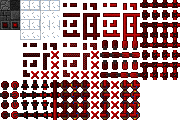
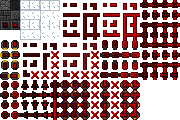
Add files via upload

Changed region(s): [[0.0, 0.325, 0.1111, 0.675]]

diff --git a/world.py b/world.py
@@ -63,11 +63,11 @@ class World:
         self.buttons = pygame.sprite.Group()
         self.is_creative = 1
         self.can_break = 1
-        self.block_indexes = {"wire" : 0, "activator" : 1, "block" : 2, "NOT" : 3, "wire box" : 4, "AND" : 5, "XOR" : 6, "diode" : 7, "output" : 8, "glass" : 9, "armored wire" : 10, "memory" : 11}
-        self.block_indexes2 = ["wire", "activator", "block", "NOT", "wire box", "AND", "XOR", "diode", "output", "glass", "armored wire", "memory"]
+        self.block_indexes = {"wire" : 0, "activator" : 1, "block" : 2, "NOT" : 3, "wire box" : 4, "AND" : 5, "XOR" : 6, "diode" : 7, "output" : 8, "glass" : 9, "armored wire" : 10, "memory" : 11, "sensor" : 12}
+        self.block_indexes2 = ["wire", "activator", "block", "NOT", "wire box", "AND", "XOR", "diode", "output", "glass", "armored wire", "memory", "sensor"]
         self.inventory_index = 0
-        self.inventory = {"wire" : 9999, "activator" : 9999, "block" : 9999, "NOT" : 9999, "wire box" : 9999, "AND" : 9999, "XOR" : 9999, "diode" : 9999, "armored wire" : 9999, "memory" : 9999, "output" : 9999, "glass" : 9999, "air" : 0}
-        self.inventory_names = ["wire", "activator", "block", "NOT", "wire box", "AND", "XOR", "diode", "armored wire", "memory", "output", "glass", "air"]
+        self.inventory = {"wire" : 9999, "activator" : 9999, "block" : 9999, "NOT" : 9999, "wire box" : 9999, "AND" : 9999, "XOR" : 9999, "diode" : 9999, "armored wire" : 9999, "memory" : 9999, "sensor" : 9999, "output" : 9999, "glass" : 9999, "air" : 0}
+        self.inventory_names = ["wire", "activator", "block", "NOT", "wire box", "AND", "XOR", "diode", "armored wire", "memory", "sensor", "output", "glass", "air"]
         #self.load_level("level")
 
     def update(self, events):
@@ -137,7 +137,7 @@ class World:
                             self.timer = 0
                             bl = block.get_block(self, blockpos, self.inventory_names[self.inventory_index])
                             sl = self.inventory_names[self.inventory_index]
-                            if sl == "NOT" or sl == "AND" or sl == "XOR" or sl == "diode" or sl == "output" or sl == "memory":
+                            if sl == "NOT" or sl == "AND" or sl == "XOR" or sl == "diode" or sl == "output" or sl == "memory" or sl == "sensor":
                                 bl.data["rotate"] = self.select_rotate
                             bl.connect_with_armored_wire()
                             self.change_image()
@@ -187,12 +187,12 @@ class World:
                         self.field[x][y].data["activated2"] = 0
             for x in range(self.w):#распространение электричества
                 for y in range(self.h):
-                    if self.field[x][y].type == "activator" or self.field[x][y].type == "NOT" or self.field[x][y].type == "AND" or self.field[x][y].type == "XOR" or self.field[x][y].type == "memory":
+                    if self.field[x][y].type == "activator" or self.field[x][y].type == "NOT" or self.field[x][y].type == "AND" or self.field[x][y].type == "XOR" or self.field[x][y].type == "memory" or self.field[x][y].type == "sensor":
                         if self.field[x][y].data["activated"] == 1:
                             self.field[x][y].update()
             for x in range(self.w):#активация логических вентилей
                 for y in range(self.h):
-                    if self.field[x][y].type == "NOT" or self.field[x][y].type == "AND" or self.field[x][y].type == "XOR" or self.field[x][y].type == "memory":
+                    if self.field[x][y].type == "NOT" or self.field[x][y].type == "AND" or self.field[x][y].type == "XOR" or self.field[x][y].type == "memory" or self.field[x][y].type == "sensor":
                         self.field[x][y].update(self.field[x][y].data, enr=0)
             self.change_image()
         self.timer = 0
@@ -312,7 +312,7 @@ class World:
                 elif int(bl[0]) == 3:
                     new_block.data["activated"] = int(bl[3])
                     new_block.data["rotate"] = int(bl[4])
-                elif int(bl[0]) == 4:
+                elif int(bl[0]) == 4 or int(bl[0]) == 8 or int(bl[0]) == 12:
                     new_block.data["activated1"] = int(bl[3])
                     new_block.data["activated2"] = int(bl[4])
                 elif int(bl[0]) == 5 or int(bl[0]) == 6:
@@ -324,9 +324,6 @@ class World:
                     new_block.data["activated1"] = int(bl[3])
                     new_block.data["activated2"] = int(bl[4])
                     new_block.data["rotate"] = int(bl[5])
-                elif int(bl[0]) == 8:
-                    new_block.data["activated"] = int(bl[3])
-                    new_block.data["rotate"] = int(bl[4])
                 elif int(bl[0]) == 10:
                     new_block.data["activated"] = int(bl[3])
                     new_block.data["connections"] = [bl[4][i] == "1" for i in range(4)]

diff --git a/sensor.py b/sensor.py
@@ -1,22 +1,20 @@
 from block import Block
 
-class NOT(Block):
+class Sensor(Block):
     def __init__(self, world, pos, glassed=0, data=None):
         preset_data = {"activated" : 0, "rotate" : 0}
-        Block.__init__(self, world, pos, "NOT", glassed, data, preset_data)
+        Block.__init__(self, world, pos, "sensor", glassed, data, preset_data)
 
     def update(self, data={}, enr=1):
         if not enr:
             behind_pos = self.get_rotate_position((self.data["rotate"] + 2) % 4)
-            inp = 0
             #вход
             if self.border(behind_pos):
                 behind_block = self.world.field[behind_pos[0]][behind_pos[1]]
-                if behind_block.is_block_connect_output((self.data["rotate"] + 2) % 4):
-                    inp = behind_block.data[behind_block.get_activated_key((self.data["rotate"] + 2) % 4)]
-            #активация
-            self.data["activated"] = not inp
-            self.active = not inp
+                if behind_block.get_activated_key((self.data["rotate"] + 2) % 4) != None:
+                    self.data["activated"] = behind_block.data[behind_block.get_activated_key((self.data["rotate"] + 2) % 4)]
+                else:
+                    self.data["activated"] = 0
         if enr:
             #распространение сигнала
             front_pos = self.get_rotate_position(self.data["rotate"])
@@ -26,16 +24,10 @@ class NOT(Block):
                     front_block.update({"rotate": self.data["rotate"]})
 
     def is_block_connect_with_wire(self, rotate):
-        return(self.data["rotate"] == rotate or (self.data["rotate"] + 2) % 4 == rotate)
+        return(self.data["rotate"] == (rotate + 2) % 4)
 
     def is_block_connect_output(self, rotate):
         return((self.data["rotate"] + 2) % 4 == rotate)
-
-    def is_block_connect_input(self, rotate):
-        return(self.data["rotate"] == rotate)
-
-    def get_activated_key(self, rotate):#-|-
-        return("activated")
 
     def connect_with_armored_wire(self):
         for i in range(4):

diff --git a/block.py b/block.py
@@ -57,6 +57,8 @@ class Block():
             self.image = get_armored_wire_image(self.data, self.data["connections"])
         elif self.type == "memory":#ячейка памяти
             self.image = get_memory_image(self.data)
+        elif self.type == "sensor":#сенсор
+            self.image = get_sensor_image(self.data)
         if self.glassed:
             see = [0, 0, 0, 0]
             for i in range(4):
@@ -92,7 +94,7 @@ class Block():
         return(0)
 
     def get_activated_key(self, rotate):#-|-
-        return("activated")
+        return(None)
 
     def connect_with_armored_wire(self):
         pass
@@ -106,6 +108,7 @@ from diode import Diode
 from output import Output
 from wire_box import WireBox
 from memory import Memory
+from sensor import Sensor
 
 def get_block(world, pos, type, glassed=0, data=None):
     if type == "wire":
@@ -126,4 +129,6 @@ def get_block(world, pos, type, glassed=0, data=None):
         return(WireBox(world, pos, glassed, data))
     elif type == "memory":
         return(Memory(world, pos, glassed, data))
+    elif type == "sensor":
+        return (Sensor(world, pos, glassed, data))
     return(Block(world, pos, type, glassed, data))

diff --git a/image_factory.py b/image_factory.py
@@ -46,6 +46,10 @@ def get_armored_wire_image(data, neighbours):
 def get_memory_image(data):
     return(get_image(data["activated1"] + data["activated2"] * 2 + data["activated"] * 4 + 6, data["rotate"] + 8))
 
+def get_sensor_image(data):
+    print(data)
+    return(get_image(data["activated"], data["rotate"] + 4))
+
 def get_block_image(sftype, neighbours, data):
     if sftype == "wire":
         return(get_wire_image(data, neighbours))
@@ -71,6 +75,8 @@ def get_block_image(sftype, neighbours, data):
         return(get_armored_wire_image(data, neighbours))
     elif sftype == "memory":
         return(get_memory_image(data))
+    elif sftype == "sensor":
+        return(get_sensor_image(data))
     elif sftype == "air":
         img = pygame.Surface((40, 40))
         img.set_colorkey((0, 0, 0))

diff --git a/logic_gate.py b/logic_gate.py
@@ -49,6 +49,9 @@ class LogicGate(Block):
     def is_block_connect_input(self, rotate):
         return((self.data["rotate"] + 1) % 4 == (rotate + 2) % 4 or (self.data["rotate"] - 1) % 4 == (rotate + 2) % 4)
 
+    def get_activated_key(self, rotate):#-|-
+        return("activated")
+
     def connect_with_armored_wire(self):
         for i in range(4):
             pos = self.get_rotate_position(i)

diff --git a/memory.py b/memory.py
@@ -45,6 +45,9 @@ class Memory(Block):
     def is_block_connect_input(self, rotate):
         return((self.data["rotate"] + 1) % 4 == (rotate + 2) % 4 or (self.data["rotate"] - 1) % 4 == (rotate + 2) % 4)
 
+    def get_activated_key(self, rotate):#-|-
+        return("activated")
+
     def connect_with_armored_wire(self):
         for i in range(4):
             pos = self.get_rotate_position(i)

diff --git a/armored_wire.py b/armored_wire.py
@@ -25,6 +25,9 @@ class ArmoredWire(Block):
     def is_block_connect_input(self, rotate):
         return (sum(self.data["connections"]) - self.data["connections"][(rotate + 2) % 4] <= 1)
 
+    def get_activated_key(self, rotate):#-|-
+        return("activated")
+
     def connect_with_armored_wire(self):
         see = [0, 0, 0, 0]
         for i in range(4):

diff --git a/output.py b/output.py
@@ -16,6 +16,9 @@ class Output(Block):
     def is_block_connect_input(self, rotate):
         return (self.data["rotate"] == rotate)
 
+    def get_activated_key(self, rotate):#-|-
+        return("activated")
+
     def connect_with_armored_wire(self):
         for i in range(4):
             pos = self.get_rotate_position(i)

diff --git a/activator.py b/activator.py
@@ -25,6 +25,9 @@ class Activator(Block):
     def is_block_connect_output(self, rotate):
         return(1)
 
+    def get_activated_key(self, rotate):#-|-
+        return("activated")
+
     def connect_with_armored_wire(self):
         for i in range(4):
             pos = self.get_rotate_position(i)

diff --git a/wire.py b/wire.py
@@ -25,6 +25,9 @@ class Wire(Block):
     def is_block_connect_input(self, rotate):
         return(1)
 
+    def get_activated_key(self, rotate):#-|-
+        return("activated")
+
     def connect_with_armored_wire(self):
         for i in range(4):
             pos = self.get_rotate_position(i)
